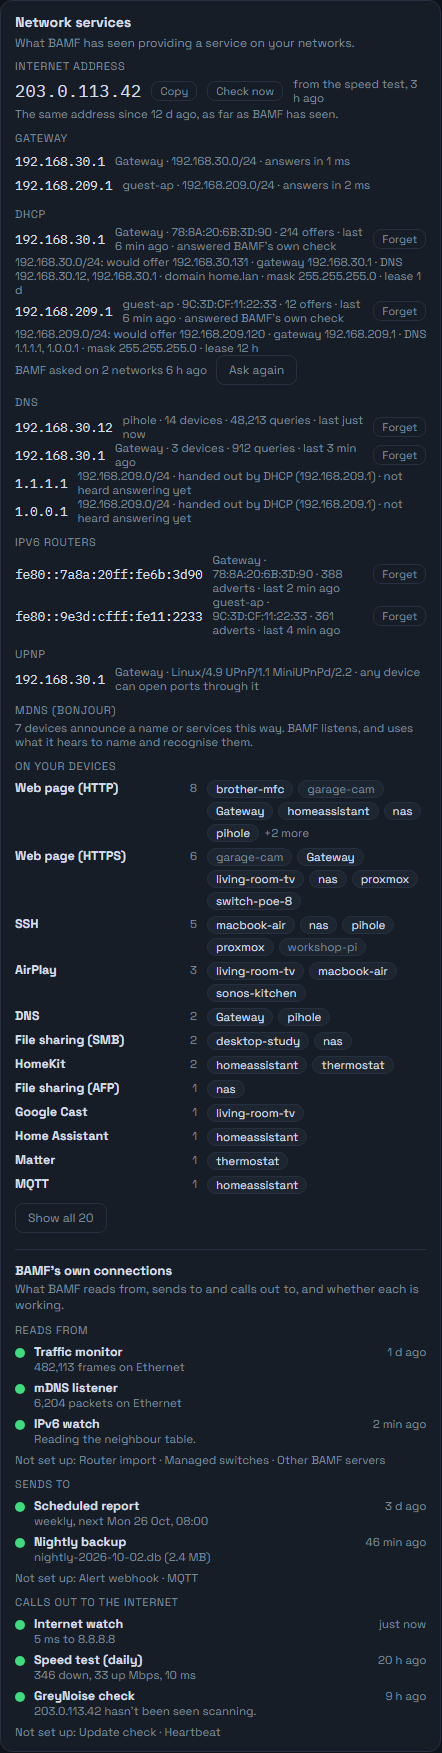
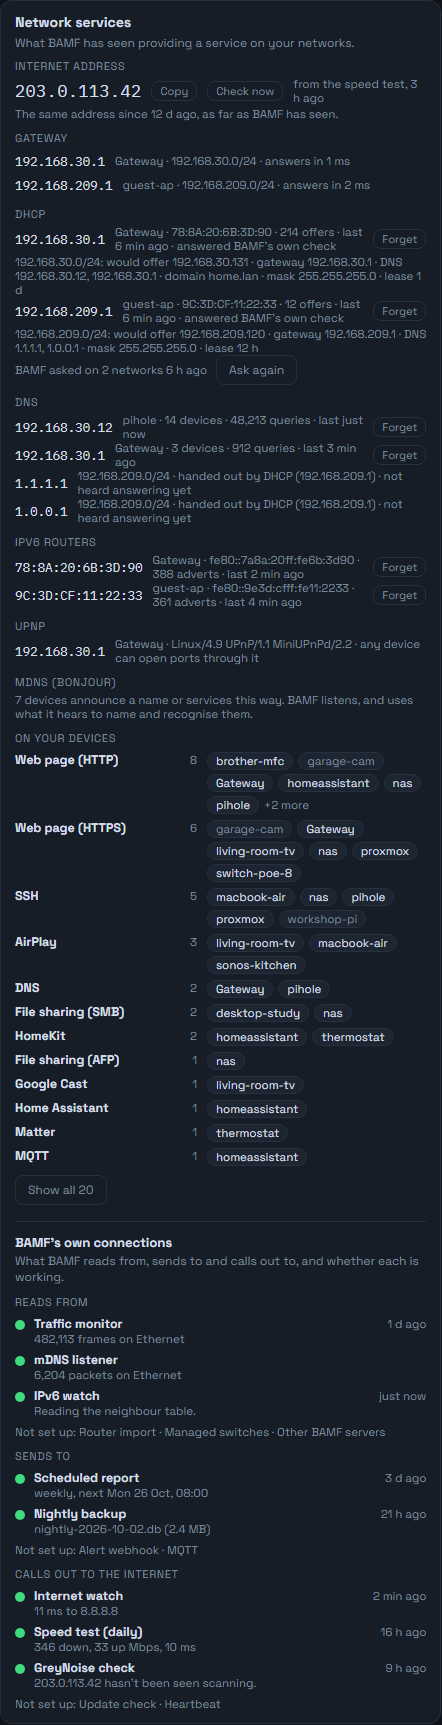
IPv6 routers: MAC in the first column so the rows don't wrap (#440)
A link-local address is long and squeezed the details into three short lines. The MAC, which is shorter, takes the first column and the address goes with the name. The Network services picture is retaken to match.

diff --git a/BAMF/wwwroot/js/services.js b/BAMF/wwwroot/js/services.js
@@ -216,7 +216,7 @@ function renderServices() {
         ` <button type="button" class="toggle" id="dhcpAskNow" style="margin-left:6px">Ask again</button>`);
   html.push(block("DHCP", (dhcpRows.join("") || note(watching ? "No DHCP offer heard yet. One turns up the next time a device asks for an address." : probe && !probe.error ? "" : why)) + probeNote));
   const raRows = (t.ra || []).map(r =>
-    `<div class="svc-row"><span class="mono">${esc(r.ip)}</span><span class="meta">${esc(r.name && r.name !== r.mac ? r.name + " · " : "")}${esc(r.mac)} · ${r.adverts} advert${r.adverts === 1 ? "" : "s"} · last ${esc(fmtAgo(r.lastSeen))}</span>${trust("ra", r.mac, r.trusted)}</div>`);
+    `<div class="svc-row"><span class="mono">${esc(r.mac)}</span><span class="meta">${esc(r.name && r.name !== r.mac ? r.name + " · " : "")}${esc(r.ip)} · ${r.adverts} advert${r.adverts === 1 ? "" : "s"} · last ${esc(fmtAgo(r.lastSeen))}</span>${trust("ra", r.mac, r.trusted)}</div>`);
   const dnsSeen = new Set((t.dns || []).map(d => d.ip));
   const handed = [];
   for (const n of probeNets) for (const o of n.offers || []) for (const ip of o.dns || []) if (!handed.some(h => h.ip === ip && h.subnet === n.subnet)) handed.push({ ip, subnet: n.subnet, server: o.server });
